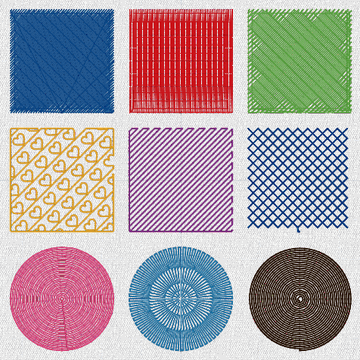
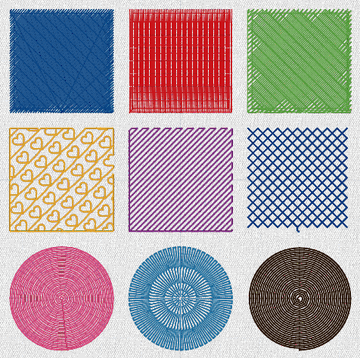
Kit and docs for fills-1: region and line sew-type cards regenerated (#616, #617)
tools/sew_kit.py rebuilt the three kit designs the fills changes alter:
fills/region-sew-types-1.pes (7,375 -> 7,119 stitches), region-sew-types-2.pes
(4,634 -> 4,545; the zigzag net on the page axes) and lines/line-sew-types.pes
(3,618 -> 3,452; the wave and heart motifs without stitches under 0.3 mm), with
their previews, manifest and README rows. FEATURE_MATRIX (motif, stippling and
zigzag net rows) and ROADMAP updated.

diff --git a/docs/FEATURE_MATRIX.md b/docs/FEATURE_MATRIX.md
@@ -92,13 +92,13 @@ PE-DESIGN reference, sew-out) is generated from the compatibility report into
 | Editing | Change Color of a stitch pattern's colour block (`stitches.setThread`); Stitches ▸ Change Color lists the threads with the PEC chart | Implemented | `change_color_of_a_stitch_pattern`, app `drawing_and_editing_commands` | — (Alt-click selection by colour: the Select Same row, #475) |
 | Line sew types | Zigzag: width, density (0.1–14 lines/mm), under sewing, half stitch; PE-DESIGN's rails matched along each leg batch:engine-bugs-3 (2026-11-06): on a curve tighter than the half width or at a cusp (a heart's top), a needle point that folds over the line is sewn on the line instead (`unfold_zigzag`, #466); the under sewing bevels a corner sharper than 120° instead of a mitre spike. Straight-leg mitres stay unlimited until the Miter limit attribute (#373). | Implemented | `zigzag_alternates_sides`, `half_stitch_thins_the_inner_side_of_bends`; compat `line-zigzag-default`, `line-zigzag-density-max` (reference); engine `coverage_stitch_types.rs`: `zigzag_line_under_sewing_adds_a_run_beside_the_line_and_is_saved` | Miter limit; PE's long-stitch split at 0.1 lines/mm; curved lines keep an even zigzag |
 | Line sew types | Running (pitch, run times 1–5; curved segments sampled by halving the Bézier parameter until every chord fits the pitch, as PE-DESIGN samples a circle: 4 × 32 chords of 1.44–1.60 mm on its 60 mm circle; no chord ceiling since 2026-10-29 (#121: an 800 mm circle's quarter arc takes 512 chords instead of stopping at 256 chords of 2.6 mm), outlines flattened adaptively to 0.05 mm where no reference pins the sampling; a chord is split further while the curve bulges more than 0.3 mm from it, so a 2 mm scallop keeps its shape (#464); E/V run times 1–5, chain times 1–6, as the guide gives), triple; PE-DESIGN's defaults, tie-in and lock | Implemented | `running_keeps_corners_and_pitch`, `running_passes_and_triple`, `frequency_and_run_times_follow_the_guide_ranges`; compat `line-running-default`, `line-triple-default`, `line-e-default`, `line-v-default` (reference) | — |
-| Line sew types | Motif (OpenStitch's own motif library, `openstitch.pattern` format; size, spacing, arrange, run pitch), stem (width, spacing, angle, single/triple), candlewicking (size, density, spacing), E/V (interval, stroke width, run/stroke times, arrange), chain (triangle/diamond, size, times, arrange); on curves stem, candlewick and chain are placed by distance along the curve, each leg running from one contour point to the next (#464: an even stem rope, knots and links within ±10 % of the set spacing), cutting (four cutwork needles by direction, leave-uncut bridges); zigzag half stitch | Implemented | `object.setLine`, `patterns.list`; `motif_line_repeats_inside_its_band_with_short_stitches`, `motif_line_closes_on_a_closed_contour`, compat `line-motif-zigzag-3pt` (reference: a whole number of motifs stretched to fill an open line, the satin-like tie-in and lock, 23 needle points as PE-DESIGN, as PE-DESIGN 11.50), `stem_stitches_slant_across_the_line`, `candlewick_knots_sit_on_the_line`, `e_and_v_strokes_reach_the_stroke_width`, `chain_links_stay_within_their_size`, `cutting_lines_go_to_the_needle_matching_their_direction`, `cutting_needles_are_separate_colour_blocks`, `half_stitch_thins_the_inner_side_of_bends`, `pattern_format_rejects_bad_documents`, `every_line_type_is_set_sewn_saved_and_undone`, `bad_line_parameters_fail_cleanly`; examples/line-types.json, docs/images/engine-line-types.png | Stem, candlewicking (Medium) and chain triangles calibrated against PE-DESIGN (compat `line-stem-default`, `line-candlewick-default`, `line-chain-default`); Start/End Type Feed/Run calibrated for closed stem, candlewicking and chain triangles (compat `line-*-startend-*`); motif lines against the owner's own motif (line-motif-zigzag-3pt); still to do: candlewicking Low/High, chain diamond; user-loaded motif files; cutwork needle angles of PE-DESIGN's cutwork machines |
+| Line sew types | Motif (OpenStitch's own motif library, `openstitch.pattern` format; size, spacing, arrange, run pitch), stem (width, spacing, angle, single/triple), candlewicking (size, density, spacing), E/V (interval, stroke width, run/stroke times, arrange), chain (triangle/diamond, size, times, arrange); on curves stem, candlewick and chain are placed by distance along the curve, each leg running from one contour point to the next (#464: an even stem rope, knots and links within ±10 % of the set spacing), cutting (four cutwork needles by direction, leave-uncut bridges); zigzag half stitch; motif lines and motif fill rows leave out needle points under 0.3 mm from the last one kept where no stitch grows past the pitch, the line still from end to end (#617) | Implemented | `object.setLine`, `patterns.list`; `motif_line_repeats_inside_its_band_with_short_stitches`, `motif_line_closes_on_a_closed_contour`, compat `line-motif-zigzag-3pt` (reference: a whole number of motifs stretched to fill an open line, the satin-like tie-in and lock, 23 needle points as PE-DESIGN, as PE-DESIGN 11.50), `stem_stitches_slant_across_the_line`, `candlewick_knots_sit_on_the_line`, `e_and_v_strokes_reach_the_stroke_width`, `chain_links_stay_within_their_size`, `cutting_lines_go_to_the_needle_matching_their_direction`, `cutting_needles_are_separate_colour_blocks`, `half_stitch_thins_the_inner_side_of_bends`, `pattern_format_rejects_bad_documents`, `every_line_type_is_set_sewn_saved_and_undone`, `bad_line_parameters_fail_cleanly`; examples/line-types.json, docs/images/engine-line-types.png; `motifs_never_stitch_under_0_3_mm` (#617) | Stem, candlewicking (Medium) and chain triangles calibrated against PE-DESIGN (compat `line-stem-default`, `line-candlewick-default`, `line-chain-default`); Start/End Type Feed/Run calibrated for closed stem, candlewicking and chain triangles (compat `line-*-startend-*`); motif lines against the owner's own motif (line-motif-zigzag-3pt); still to do: candlewicking Low/High, chain diamond; user-loaded motif files; cutwork needle angles of PE-DESIGN's cutwork machines |
 | Region sew types | Satin: a zigzag across the column (the first row sewn across, then one needle point per row on alternate edges; also Manual Punch columns and skeleton satin); manual or auto direction (satin: rows along a derived skeleton, perpendicular to the local axis, PE-DESIGN's corner fan, rungs at whole spacings from the far end (past a 100° bend rebuilt on the outer edge, 1/3 mm apart at 3 lines/mm, crossings no longer than two widths: satin-auto-bend-120), start travel forward along the outline 0.5 mm inside it and one needle point per rung ending on the start point, no Running Stitch Path choice; Half Stitch on Auto satin (`halfStitch`, on by default as PE-DESIGN's drawing tools, saved only when off; the inspector's toggle with Auto direction): every other needle point crowded on a bend's inner side pulled back along its crossing, by 1.4 × (0.3 − crowding) of the crossing up to 25 %, crowding = the side's needle spacing over the other side's (#372; PE-DESIGN's 120° bend moves its points 60, 64 … 88 by 0.8–2.4 mm, ours 1.5–2.4 mm at the same points; its 90° bend about 0.5 mm, ours 0.2–1.1 mm; 30–75° untouched by both); jagged regions as Auto Punch traces them (#304, OpenStitch's own sew-out rules where PE-DESIGN's references say nothing): Auto satin whose derived skeleton doubles back (more than one crossing in ten crossing its neighbour) keeps the fixed-direction satin across the principal axis, its start travel skips needle points closer than 0.5 mm where the shortcut stays inside, and a sectioned satin's travels keep their needle points at least 0.5 mm from the earlier travels' where a point up to 1.5 mm away keeps both stitches inside (storybook picture, PE-compatible mode: 23 drops in one spot and 81.4 mm of thread per mm² → 17 and 46.9; PE-DESIGN's own Auto Punch of the picture: 22 and 38.8); fill and fallbacks: across the narrow side, principal axis), density, pull compensation; under sewing types as the exclusive `underlayStyle` (PE-DESIGN's buttons are exclusive radio buttons: edge / zigzag / edgeZigzag / double / edgeFill / cross), each a set of combinable parts underneath (`underlayParts`: edge run, rows across the direction, lattice, piping; combining them freely is OpenStitch's own extension), PE-DESIGN's Density Dense / Medium / Light (`underlayDensity`: rows 1.4 / 2.0 / 3.5 mm nominal, on both inset edges with the nearest whole number of gaps; `underlaySpacing` overrides), a Manual Punch column's under sewing 0.5 mm inside its rails (edge run, piping down the middle, zigzag between the rails in diagonals split to the stitch length; PE-DESIGN's five column buttons map onto the styles: types 1 and 2 = edge + piping + piping + zigzag (edgeZigzag, double), types 3 and 5 = edge, type 4 = piping + zigzag (zigzag); round-4 captures satin-col-us-*: 275 stitches to PE-DESIGN's 286, 219 / 225, 239 / 249), PE-DESIGN's second under sewing type as `cross` (edge run, then lines at the direction ∓ 45° in two halves from the far corners; spec sweep-satin-us-type-2, 395 stitches to PE-DESIGN's 404); gradation (PE-DESIGN's pattern: Max/Min % of density, falling linearly across the region, rows at equal steps of the cumulative line count from edge to edge, default 53/5/9; on a split satin each half hops to the last line at or before the start point and sets its crossings on every other line counting back from the hop plus the far end's line, as PE-DESIGN at every density (specs sweep-satin-density-min at 0.1 lines/mm, needle for needle, and the round-3 column at 0.2, 0.3 and 0.5, record for record); on a feathered satin a single-line gap under 1 mm next to the far end is not crossed, those crossings spread evenly (satin-feather), plain satin crosses it at every size and stretches its lattice to floor(length × density) gaps, a column started at one end is sewn from its far end back to the start point (pe-refs-4's satin-length-sweep, #122); a gradation row within 0.05 mm of the start point is the second half's hop only (satin-gradation): spec satin-gradation, needle for needle with PE-DESIGN 11.50, 37 stitches; old far-side percentages sew as before); feathered edge (start, end, both; width); splitting long stitches (staggered; off by default: PE-DESIGN sends 16-30 mm crossings whole, `machine-satin-width-*`, and `tools/sew_check.py` warns on stitches over 12 mm, #460); a narrow Auto satin column's end rung keeps its width (#460: the kit's 1 mm column began with a 39.5 mm stitch); variable-direction satin along a skeleton (`shape.skeletonSatin`, `object.setSkeleton`: centre line with a width per point, stitches perpendicular to the line and turning smoothly through bends; saved in .osd as the optional `skeleton`); skeleton derived from a shape (`object.deriveSkeleton`: an approximation of the medial axis — grid clearance, the longest path through the shape, corner ends trimmed, chord widths); editor Manual Punch ▸ Satin Skeleton tool (pen-like centre line, a width handle either side of each point, Column width; edits a selected stored skeleton) and Shapes ▸ Satin Skeleton from Shape batch:engine-bugs-3 (2026-11-06): skeleton satin takes Half Stitch where a bend crowds one side, so a sharp apex no longer piles its inner needle points (#466). | Implemented | `object.setRegion`; `stitches_are_perpendicular_to_the_centre_line`, `density_and_width_are_respected`, `degenerate_input_gives_no_nan`, `skeleton_satin_sews_across_its_centre_line`, `skeleton_on_an_existing_satin_shape`, `bad_skeleton_parameters_fail_cleanly`, `derived_skeleton_of_a_bar_runs_down_its_middle`, `derived_skeleton_follows_a_bend`, `deriving_from_nothing_gives_none`, `skeleton_derived_from_a_shape`, `deriving_a_skeleton_fails_cleanly`, `satin_skeleton_tool_draws_a_column_with_a_width_per_point`, `satin_skeleton_tool_edits_a_stored_skeleton`, `satin_skeleton_needs_a_line`; `satin_one_needle_point_per_row_with_pull_compensation`, `auto_direction_sews_across_the_narrow_side`, `satin_compat.rs` (audit items 1 and 7: `region_satin_sews_a_zigzag_across_the_column`, `manual_punch_column_sews_a_zigzag`, `skeleton_satin_sews_a_zigzag`, `pull_compensation_widens_the_zigzag`, `auto_direction_satin_follows_a_bent_band`; reference tier for Auto satin bends: satin-auto-bend-30/45/60/75/90/120 and -nohalf twins, auto-satin-bent-band; `machine-satin-width-16/18/20/22/25/30`: 16–30 mm crossings sent whole), `underlay_styles_layer_inside_the_region`, `under_sewing_density_sets_the_row_count_with_rows_on_the_inset_edges`, `under_sewing_parts_combine_and_name_themselves`, `column_under_sewing_sews_the_edge_the_piping_and_the_zigzag_as_pe_design`, `gradation_spreads_rows_towards_the_far_side`, `gradation_pattern_sews_rows_at_equal_steps_of_the_cumulative_line_count`, `satin_gradation_splits_on_every_other_lattice_line`, `satin_lattice_stretches_to_whole_gaps_and_crosses_every_far_end_gap`, `satin_ties_in_three_steps_after_a_three_millimetre_first_stitch`, `gradation_reads_the_old_single_percentage`, `gradation_pattern_options`, `gradation_and_feathered_edge_follow_the_guide_exclusions`, `unavailable_gradation_and_feather_are_kept_but_not_sewn`, `feathered_edges_shorten_row_ends_deterministically`, `long_satin_stitches_split_and_stagger`, `satin_and_fill_options_are_set_and_undone`, `bad_region_options_fail_cleanly`; docs/images/engine-badge.png, examples/satin-fill-options.json, docs/images/engine-satin-fill-options.png, `auto_satin_on_a_sharp_bend_spaces_its_needle_points_along_the_outer_edge`, `auto_satin_half_stitch_pulls_back_every_other_crowded_inner_point`, `half_stitch_is_on_by_default_and_saved_only_when_off`, `auto_satin_half_stitch_is_set_sewn_saved_and_undone`, `half_stitch_is_offered_for_auto_satin_only`, `satin_travels_round_holes_spread_their_needle_points`, `auto_satin_on_a_doubled_back_skeleton_keeps_one_direction`, `auto_satin_start_travel_skips_needle_points_under_half_a_millimetre` (fixture `storybook-satins.json`), compat `satin-auto-bend-120` (mean stitch 4.75 mm with Half Stitch, PE-DESIGN 4.58, 0.25 mm tolerance); engine `coverage_stitch_types.rs`: `satin_underlay_parts_apply_refuse_unknown_parts_undo_and_save` | Branching skeletons and an exact medial axis; Half Stitch's pull-back is fitted to two bends (90°, 120°), our fan's inner ends meet at the corner where PE-DESIGN's spread; other gradation presets, per-step editing and two-colour blending; calibration |
 | Region sew types | Fill (tatami: angle or auto direction (new fills start at 45° as PE-DESIGN 11.50's shape tools, pes-objects r01; saved designs keep their stored angle), density 0.1–14.0 lines/mm as PE-DESIGN 11.50's field (references sweep-fill/satin-density-min; #139's 0.2 floor contradicted), stitch length, Frequency 0–50 % needle shift per row (default 30 % as PE-DESIGN; older files without one keep ⅓), stagger regular (the Frequency brick) or random (`stagger: random`, seeded by `staggerSeed`, reproducible, no two rows alike; OpenStitch's own, PE-DESIGN's Fill pane has no random stagger), PE-DESIGN's row order (halves from the start point, brick row ends, straight 2 mm travel, tie-in and lock), pull compensation, holes, under sewing parts and Density (PE-DESIGN's first type as `edgeFill` = edge + rows, its second as `cross` = edge + lattice: spec sweep-fill-us-type-2, 2650 stitches to PE-DESIGN's 2651; Dense / Light rows 1.407 / 3.455 mm apart on the inset square as PE-DESIGN's: specs sweep-fill-us-density-dense/-light), gradation, feathered edge); Running Stitch Path for fill and satin (`runningStitchPath`: Inside of region (default), Along outline, On outline; running stitches between separate parts, no trims or jumps; not offered with Auto direction, a feathered edge or text, Inside not with gradation; old `.osd` `travel` values still load) batch:engine-bugs-3 (2026-11-06): Along / On outline also walks the fill's travel from the start point to its first row and back along the edge (Inside keeps PE-DESIGN's straight run, which its sweep-fill-density-min reference shows at 0.1 rows/mm; #628); a programmable fill's under sewing joins its edge run to its rows along the outline; start and end points left off a reshaped outline are sewn where they snap to it (#570, #571). | Implemented (reference tier: fill-frequency-*, region-travel-u-*, sweep-fill-*, u-gradation-* (Max/Min, pattern 2, Direction 90; patterns 3–8 and Blend routing only), square-gradation-default/-30-10) | `fill_and_satin_travel_between_parts_without_trims`, `the_outline_paths_differ_from_inside_travel`, `running_stitch_path_follows_the_guide_exclusions`, `running_stitch_path_defaults_and_old_files`, `old_fill_without_travel_still_jumps`, `fill_frequency_sets_the_row_to_row_needle_shift`, `regular_stagger_is_the_frequency_brick_and_the_third_without_one`, `random_stagger_is_seeded_reproducible_and_does_not_repeat`, `outline_travel_walks_on_or_just_inside_the_outline`, `fill_inside_rows_bounded_and_staggered`, `hole_contour_splits_rows`, `separated_parts_become_separate_runs`, `travel_stays_inside_instead_of_jumping`, `travel_graph_routes_around_a_notch`; docs/images/engine-satin-fill-options.png, `new_fills_start_at_45_degrees_and_saved_designs_keep_their_angle`; engine `coverage_stitch_types.rs`: `fill_pull_compensation_lengthens_the_rows_at_both_ends` | Calibrate defaults and the Along outline inset (0.5 mm placeholder); what PE-DESIGN sews where the attribute is unavailable (OpenStitch travels inside); Stitch Type (turning ends) and Half Stitch need reference geometry; manual curve direction |
 | Region sew types | Fill Stitch Type 2 (PE-DESIGN's second Stitch Type button: sloped rows, each pass rising one row spacing from edge to edge so the passes join in one continuous zigzag, needle grid by the Frequency rule from the row each pass ends on; `stitchType` 1/2 on `object.setRegion` and the inspector's Fill "Stitch type" choice, saved in `.osd` only when 2; Stitch Type 1 is OpenStitch's fill) | Partially Compatible | PE-DESIGN reference specs `tatami-40-st2-dir0/30/90`, `tatami-40-st2-dir45-freq0`, `tatami-40-stitch-type-2` and the Type 1 set `tatami-40-st1-dir0/30/90` (round 5, 2026-10-30); pescmp vs PE: 0° identical (needle 0.001 mm, IoU 1.000), 90° 0.048 mm / 0.969, 45° 0.305 / 0.976, 30° 0.318 / 0.849; unit tests `stitch_type_2_passes_rise_one_row_from_edge_to_edge`, `stitch_type_2_needle_grid_follows_the_row_a_pass_ends_on`, `fill_stitch_type_is_set_sewn_saved_and_undone`, `fill_offers_stitch_type_with_the_region_s_value` (COMPATIBILITY_AUDIT item 15) | Row anchor at 30°/45°, shared with Type 1: round 6 pins PE's rows to the shape at the exact 1/density spacing counted from the far side (round-6 specs `tatami-40-pos*`, `tatami-40x20-*`); still to model: the per-angle needle-grid constant and PE-DESIGN's page-position dependence |
-| Region sew types | Programmable fill (OpenStitch's own tile library in `openstitch.pattern`; needle points only where the rows cross the pattern's lines, the tile on the page axes from the region's top-left corner, rows sharing their turning points, gaps unsplit up to 12 mm, as PE-DESIGN 11.50 (owner-v: 10.6 mm), or split evenly past `splitLength` 2-12 mm, beyond PE-DESIGN (#459); 45° default direction (guide); size, row/column offset, base sewing with frequency 0–50 %), motif fill (library motifs in rows, each base line in the middle of its band from the region's top edge, rows from the one nearest the start point, travel along the outline in steps of at most 2 mm, tie-in and lock, as PE-DESIGN 11.50; size, spacing, row offset, run pitch), piping (running-stitch rows, frequency), cross stitch (whole cells inside, single/triple, size; the grid on the page axes from the design origin whatever the direction, as PE-DESIGN 11.50's o-region-cross.pes at 45°, so two regions share it; each row sewn out and back as Cross Stitch from an image, a whole X per cell, travel only along the crosses' half diagonals, #463) | Implemented | `object.setRegion`, `patterns.list`; `every_region_type_sews_inside_with_bounded_stitches`, `every_pattern_of_every_patterned_type_sews`, `programmable_fill_puts_needle_points_on_the_pattern`, `programmable_fill_defaults_to_45_degrees`, `programmable_fill_splits_long_stitches_on_request`, `piping_rows_shift_by_the_frequency`, `cross_stitch_sews_an_x_in_every_cell`, `motif_fill_repeats_the_motif_in_rows`, `every_region_type_is_set_sewn_saved_and_undone`, compat `prog-fill-square-4pt`, `prog-fill-line-2pt`, `motif-fill-2pt` (reference: PE-DESIGN 11.50's fills of owner-made patterns, counts within 3 %, needle points within 0.2 mm; motif fill 130 needle points as PE), `bad_region_type_parameters_fail_cleanly`; examples/region-types.json, docs/images/engine-region-types.png, examples/programmable-fill.json, docs/images/engine-programmable-fill.png | Whether a type change keeps the old direction (it does now; needs reference); which way the motif fill walks when both ends of its first row are as near the start point (PE-DESIGN went right on its one reference, OpenStitch goes left); the programmable fill's pattern Direction; Motif Pattern1/Pattern2 combinations and H/V arrange; calibration (user patterns: see Programmable Stitch Creator) |
+| Region sew types | Programmable fill (OpenStitch's own tile library in `openstitch.pattern`; needle points only where the rows cross the pattern's lines, the tile on the page axes from the region's top-left corner, rows sharing their turning points, gaps unsplit up to 12 mm, as PE-DESIGN 11.50 (owner-v: 10.6 mm), or split evenly past `splitLength` 2-12 mm, beyond PE-DESIGN (#459); 45° default direction (guide); size, row/column offset, base sewing with frequency 0–50 %), motif fill (library motifs in rows, each base line in the middle of its band from the region's top edge, rows from the one nearest the start point, travel along the outline in steps of at most 2 mm, tie-in and lock, as PE-DESIGN 11.50; size, spacing, row offset, run pitch), piping (running-stitch rows, frequency), cross stitch (whole cells inside, single/triple, size; the grid on the page axes from the design origin whatever the direction, as PE-DESIGN 11.50's o-region-cross.pes at 45°, so two regions share it; each row sewn out and back as Cross Stitch from an image, a whole X per cell, travel only along the crosses' half diagonals, #463); stippling one lattice cell wide (or high) closes its loops (a step down was taken for a step right on one column, #638: seed 993's 32 GiB allocation); on a band too narrow for the meander's cells the spacing tightens in 10 % steps, down to half, until it fits (#708); a ring's fill pieces join inside the band, never across the hole (#615) | Implemented | `object.setRegion`, `patterns.list`; `every_region_type_sews_inside_with_bounded_stitches`, `every_pattern_of_every_patterned_type_sews`, `programmable_fill_puts_needle_points_on_the_pattern`, `programmable_fill_defaults_to_45_degrees`, `programmable_fill_splits_long_stitches_on_request`, `piping_rows_shift_by_the_frequency`, `cross_stitch_sews_an_x_in_every_cell`, `motif_fill_repeats_the_motif_in_rows`, `every_region_type_is_set_sewn_saved_and_undone`, compat `prog-fill-square-4pt`, `prog-fill-line-2pt`, `motif-fill-2pt` (reference: PE-DESIGN 11.50's fills of owner-made patterns, counts within 3 %, needle points within 0.2 mm; motif fill 130 needle points as PE), `bad_region_type_parameters_fail_cleanly`; examples/region-types.json, docs/images/engine-region-types.png, examples/programmable-fill.json, docs/images/engine-programmable-fill.png; `stippling_one_cell_wide_or_high_closes_its_loops` (#638), `fills_on_a_ring_never_cross_its_hole_and_a_narrow_band_still_stipples` (#615, #708) | Whether a type change keeps the old direction (it does now; needs reference); which way the motif fill walks when both ends of its first row are as near the start point (PE-DESIGN went right on its one reference, OpenStitch goes left); the programmable fill's pattern Direction; Motif Pattern1/Pattern2 combinations and H/V arrange; calibration (user patterns: see Programmable Stitch Creator) |
 | Region sew types | Concentric circle and spiral as PE-DESIGN 11.50 sews them (#138; Density default 2.0 lines/mm, Run pitch 2.0 mm, Start Point first/second button = `startInside`): concentric circle = circles about the centre one row apart, the whole ones from the largest inwards from one radial seam (where the first cut circle meets the outline walking counter-clockwise from R1), a trim, then the cut ones outwards as arcs (a start point beyond the whole circles: the arcs first, then a trim and a jump in, as PE's concentric-rect30x40 and triangle, #461), 4·2ⁿ needle points a circle (at least 16) on the 0.1 mm grid; spiral = one path from R1 on the outline, the outline offset a row inwards per turn to the middle (rectangular turns on a rectangle, a spiral round a hole too), 4·2ⁿ points a smooth turn, corners kept; the second button sews either backwards; no travel to R1/R2 (PE jumps in and ends where the pattern ends); an inner shape whose region is Not Sewn stays a hole; radial (lines thinned towards the centre so neighbouring needle points stay 0.4 mm apart and only one line reaches it; sewn from the line nearest R1, ending on the outline, #461), flexible spiral (outline shrunk turn by turn, from R1 on the outline to the middle with no run back out, #461), start inside/outside; stippling (random spanning tree on a grid fitted to the shape, fixed seed, non-crossing closed path; passes evened to the set spacing and the outer ones moved to about half a spacing from the outline and holes, curve stitches up to 2 mm, starting and ending at the point nearest R1 so no run lies along the outline, #462: mean gap to the outline on a 26 mm square 2.45 → 1.07 mm, run along the outline 71 → 2 mm); net fill (square, diamond, triangle, honeycomb, star, crossed waves); zigzag net fill (first four, width, density, under sewing); decorative fill (OpenStitch's own row patterns, size, random shift; patterns with free lines (`freeLines`, the user's own `.plf`) tiled as a grid centred on the region up to 100 mm, lines split evenly at the run pitch, travel along the outline in 2 mm steps, tie-in and lock, as PE-DESIGN 11.50, compat `deco-fill-1line-100mm`, `deco-fill-1line-offcentre` (the tile centred on the shape's box); PE-DESIGN also repeats the line and walks the outline, 292 and 357 needle points against 73 and 83); travel around the edges / inside the region (minimize feed) | Implemented (reference tier: concentric-circle40, -start2, -d1p0, -d3p0, -pitch3p0, concentric-rect40x30, concentric-ring40-hole15, spiral-circle40, -start2, -d1p0, -d3p0, -pitch3p0, spiral-rect40x30, spiral-ring40-hole15) | `concentric_circle_sews_whole_circles_outside_in_then_the_cut_ones`, `concentric_circle_on_a_rectangle_seams_where_the_first_cut_circle_leaves_the_bottom`, `concentric_circle_skips_a_hole_and_start_point_two_reverses_it`, `spiral_starts_on_the_outline_and_closes_in_a_row_per_turn`, `spiral_turns_on_a_rectangle_are_rectangles_a_row_apart_on_both_axes`, `spiral_round_a_hole_never_sews_into_it_and_start_point_two_reverses_it`, `both_types_default_to_pe_designs_density_and_sew_through_the_region_code`, `circles_and_spirals_start_where_asked`, `radial_lines_thin_out_towards_the_centre`, `stippling_is_a_closed_path_that_never_crosses_itself`, `square_net_lines_are_straight_and_axis_aligned`, `region_types_without_travel_jump_between_parts`; docs/images/engine-region-types.png | Open: the pitch-3.0 spiral count (PE 1354, OpenStitch 1284, internal-tier check; PE's turn counts fall off gradually below the 4·2ⁿ threshold, rule not found, COMPATIBILITY_AUDIT) and the ring spiral count (PE 1952: 31 trimmed sliver pieces in the meeting band, 64 trims, not copied; OpenStitch 1473); the concentric seam on Bézier outlines. Settled 2026-10-31: tie-in and lock on every Concentric/Spiral run, grazing cut circles sewn whole, the triangle spiral's width; concentric outside-in order from a start point beyond the whole circles and triangle spiral sides (round 6, 12 more specs). Open, pinned at the internal tier: spiral needles per turn below the outer power-of-two turns (pitch 1.0/4.0, 20 mm circle), concentric needles per circle (20 mm circle, square, triangle). Spiral round a hole (round 7, 6 more specs): PE's trimmed band pieces between the two spirals not sewn yet (needs PE's turn sampling rule; the default will sew them, with compatMode "openStitch" for the single travel). Settled (round 5, 8 more specs): the spiral winds counter-clockwise and ends in the middle from a start point on a vertex, clockwise with a trimmed closing run back to the start from a start point inside an edge; concentric: PE splits more chords inside a circle (counts within 3 %), the seam on a Bézier circle (PE's 9 o'clock depends on its outline flattening); spiral: the winding on a circle (PE turns against its outline there, with it on a rectangle), the meeting band of a spiral with a hole (PE: about 30 trimmed pieces, 64 trims; OpenStitch one travel, count not compared), the return run PE sews on a rectangle after the middle; moving the centre point; PE-DESIGN's concentric/radial effects (Design Center); stippling with motifs; radial, flexible spiral and stippling calibration |
-| Region sew types | Zigzag net fill as PE-DESIGN 11.50 sews it (o-region-zigzag-net, #293): a satin band along every net line, a rung straight across then a diagonal back, defaults band 3.0 mm, net spacing 8.0 mm, a rung every 0.44 mm (density 2.25); every net edge sewn once (the honeycomb's rows share theirs), each rung square to its edge and cut where bands meet at a line's end or turn (bands crossing straight through a crossing stay whole, as the reference), every needle point inside the outline, travel along the net lines, no needle point within 0.3 mm of the last (#463) | Implemented | `every_region_type_sews_inside_with_bounded_stitches`; ready-to-sew kit `fills/region-sew-types-2.pes` | Machine sew-out of the new net (the old one sewed lumpy on the NV880E, 2026-11-04) |
+| Region sew types | Zigzag net fill as PE-DESIGN 11.50 sews it (o-region-zigzag-net, #293): a satin band along every net line, a rung straight across then a diagonal back, defaults band 3.0 mm, net spacing 8.0 mm, a rung every 0.44 mm (density 2.25); every net edge sewn once (the honeycomb's rows share theirs), each rung square to its edge and cut where bands meet at a line's end or turn (bands crossing straight through a crossing stay whole, as the reference), every needle point inside the outline, travel along the net lines, no needle point within 0.3 mm of the last (#463); on the page axes whatever the Direction, its lines starting half a band inside the shape's left and top edges, as PE-DESIGN's reference at Direction 45° (#616: needle points within 0.06 / 0.12 mm mean of PE's, both ways; with a reference point the net starts there) | Implemented | `every_region_type_sews_inside_with_bounded_stitches`; ready-to-sew kit `fills/region-sew-types-2.pes`; engine `zigzag_net_sews_on_the_page_axes_as_pe_design_does` (#616) | Machine sew-out of the new net (the old one sewed lumpy on the NV880E, 2026-11-04) |
 | Region sew types | Tie-in and end lock on every run a trim separates, as PE-DESIGN 11.50 sews them (all but one of the 2,590 trimmed runs in its reference files end with a lock): every region and line type, and Photo Stitch 1 and 2, Cross Stitch runs (`stitch_edit::lock_runs`); opened stitch files and cutwork keep theirs (#289, #295) | Implemented | `golden_project_compiles_to_recorded_statistics`, engine `script_output_matches_golden_pes`; `tools/sew_check.py` on the kit | Machine sew-out (the unlocked sunset patch left loose tails, 2026-11-04) |
 | Wizards | Split designs: custom Design Page in hoop sections (10 mm smaller than the hoop; smaller sections option), even or user split positions, left-to-right/top-to-bottom order, alignment stitching (7 mm running, 0.3 mm fixing) before/after per shared edge, one machine file per section centred on its hoop | Implemented | `sections.set`, `sections.list`, `sections.export`; `split_grid_orders_sections_and_alignment_edges_like_the_guide`, `section_files_hold_their_part_with_alignment_stitching_centred_on_the_hoop`, `split_sections_list_and_export_one_file_each`, `sections_bad_parameters_fail_cleanly`; editor overlay + Design Settings + File ▸ Export Sections (docs/images/rust-editor-split.png); examples/split-banner.json | PE-DESIGN writes one PES with its own section header (undocumented): ours is one file per section; section label scheme and full section-size list are images in the guide; the ruler marker for each split line (lines are dragged on the Design Page with Hoop Settings ▸ Move Sections, `move_sections_drags_a_split_line`) |
 | Wizards | Multi-position hoops (100 × 172, 130 × 300): positions a/b/c, patterns assigned by area, out-of-area errors, optimise hoop changes (reproduces the guide's example) | Implemented | `multi_position_assigns_patterns_and_optimizes_hoop_changes`, `multi_position_and_jumbo_plans` | Area offsets are a picture in the guide (ours: evenly spaced); compare with PE-DESIGN |

diff --git a/examples/sew/README.md b/examples/sew/README.md
@@ -319,7 +319,7 @@ Every region sew type and the fill, satin and underlay options.
 
 #### Region sew types (1 of 2)
 
-[`fills/region-sew-types-1.pes`](fills/region-sew-types-1.pes) · 100 × 100 mm hoop · 86 × 86 mm · 7,375 stitches · 11 trims · about 9.8 min
+[`fills/region-sew-types-1.pes`](fills/region-sew-types-1.pes) · 100 × 100 mm hoop · 86 × 86 mm · 7,119 stitches · 11 trims · about 9.5 min
 
 Nine region sew types, left to right, top to bottom: fill, satin, programmable fill (diamonds), motif fill (heart), piping, cross stitch, concentric circle, radial, spiral.
 
@@ -329,7 +329,7 @@ Threads, in sewing order: 405 Blue, 800 Red, 509 Leaf Green, 208 Orange, 620 Mag
 
 #### Region sew types (2 of 2)
 
-[`fills/region-sew-types-2.pes`](fills/region-sew-types-2.pes) · 100 × 100 mm hoop · 86 × 86 mm · 4,634 stitches · 9 trims · about 6.3 min
+[`fills/region-sew-types-2.pes`](fills/region-sew-types-2.pes) · 100 × 100 mm hoop · 86 × 86 mm · 4,545 stitches · 9 trims · about 6.1 min
 
 Flexible spiral, stippling, net fill (square), zigzag net fill (honeycomb), decorative fill (waves), contour fill as rings and as a double spiral (beyond PE-DESIGN), programmable fill (bricks) with base sewing, motif fill (leaf).
 
@@ -373,7 +373,7 @@ Every line sew type.
 
 #### Line sew types
 
-[`lines/line-sew-types.pes`](lines/line-sew-types.pes) · 100 × 100 mm hoop · 86 × 87.5 mm · 3,618 stitches · 9 trims · about 5 min
+[`lines/line-sew-types.pes`](lines/line-sew-types.pes) · 100 × 100 mm hoop · 86 × 87.5 mm · 3,452 stitches · 9 trims · about 4.8 min
 
 Top to bottom: running, triple, zigzag, motif (wave), stem, candlewick, E stitch, V stitch, chain.
 

diff --git a/docs/ROADMAP.md b/docs/ROADMAP.md
@@ -181,7 +181,11 @@ on one page-axis grid and zigzag nets stay inside the outline; stem, candlewick 
 spaced along curves. Left for later: what Direction should do on a cross stitch region (needs a
 PE-DESIGN reference) and cross kinds (#614), travel that crosses a hole between separate pieces
 of a fill (#615), the zigzag net's turned grid against PE-DESIGN's (#616), motif lines' runs of
-short stitches (#617), and a Beyond-PE rope stitch (#618).
+short stitches (#617), and a Beyond-PE rope stitch (#618). Done 2026-11-07 (`batch:fills-1`):
+#615 (a regression test; joins already stay inside the band), #616 (the net on the page axes,
+within 0.1 mm of PE-DESIGN's), #617, and two stippling bugs found on the way: seed 993's runaway
+allocation (#638) and a narrow band that sewed nothing (#708). #614 continues: PE-DESIGN's cross
+stitch has no Direction and only Times (single, double, triple), captured 2026-11-07.
 
 Done 2026-11-05 (#450): every kit, demo and screenshot design reviewed at full size (stitches alone
 at 15 px/mm and the Realistic view). Kit and demo designs fixed, built-in templates regenerated,
